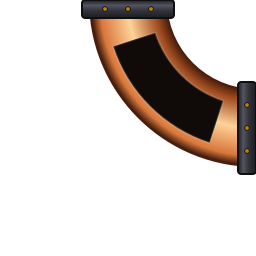
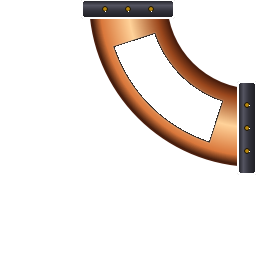
fix(pipepunk): layer fluid underneath pipe casings so liquid flows inside the cutaway bore

Changed region(s): [[0.4375, 0.125, 0.875, 0.5625], [0.9062, 0.3125, 1.0, 0.6875], [0.3125, 0.0, 0.6875, 0.0938]]

diff --git a/games/pipepunk/main.qml b/games/pipepunk/main.qml
@@ -1082,62 +1082,24 @@ Window {
                     readonly property real cellW: width / Engine.COLS
                     readonly property real cellH: height / Engine.ROWS
 
-                    // Base Plates and Pipes
+                    // Layer 1: Steel Base Plates
                     Repeater {
                         model: Engine.ROWS * Engine.COLS
 
-                        Item {
+                        Image {
                             readonly property int r: Math.floor(index / Engine.COLS)
                             readonly property int c: index % Engine.COLS
                             x: c * gridMatrix.cellW
                             y: r * gridMatrix.cellH
                             width: gridMatrix.cellW
                             height: gridMatrix.cellH
-
-                            // Steel Base Plate
-                            Image {
-                                anchors.fill: parent
-                                anchors.margins: 1
-                                source: "assets/plate.png"
-                                fillMode: Image.Stretch
-                                smooth: true
-                            }
-
-                            // Placed Pipe Fitting
-                            Image {
-                                id: pipeSprite
-                                anchors.fill: parent
-                                anchors.margins: 1
-                                fillMode: Image.Stretch
-                                smooth: true
-                                mipmap: true
-                                source: {
-                                    if (gridRevision < 0 || !gameState || !gameState.grid) return "";
-                                    var cell = gameState.grid[r][c];
-                                    if (!cell || cell.type === "empty") return "";
-                                    return "assets/" + cell.type + ".png";
-                                }
-                            }
-
-                            // Cell Mouse Click Handler
-                            MouseArea {
-                                anchors.fill: parent
-                                hoverEnabled: true
-                                cursorShape: Qt.PointingHandCursor
-                                onClicked: {
-                                    cursorR = r;
-                                    cursorC = c;
-                                    placePipeAt(r, c);
-                                }
-                                onEntered: {
-                                    cursorR = r;
-                                    cursorC = c;
-                                }
-                            }
+                            source: "assets/plate.png"
+                            fillMode: Image.Stretch
+                            smooth: true
                         }
                     }
 
-                    // Fluid Simulation Overlay Canvas
+                    // Layer 2: Fluid Simulation Canvas (flows INSIDE the pipe bore)
                     Canvas {
                         id: gridCanvas
                         anchors.fill: parent
@@ -1182,7 +1144,7 @@ Window {
                             grad.addColorStop(1, "#065f46");
 
                             ctx.strokeStyle = grad;
-                            ctx.lineWidth = cw * 0.22;
+                            ctx.lineWidth = cw * 0.18;
                             ctx.lineCap = "butt";
                             ctx.lineJoin = "miter";
 
@@ -1290,7 +1252,7 @@ Window {
                             grad.addColorStop(1, "#075985");
 
                             ctx.strokeStyle = grad;
-                            ctx.lineWidth = cw * 0.22;
+                            ctx.lineWidth = cw * 0.18;
                             ctx.lineCap = "butt";
 
                             ctx.beginPath();
@@ -1317,6 +1279,51 @@ Window {
                             ctx.stroke();
 
                             ctx.restore();
+                        }
+                    }
+
+                    // Layer 3: Placed Pipe Fittings (ON TOP of fluid, clamping fluid into the cutaway bore)
+                    Repeater {
+                        model: Engine.ROWS * Engine.COLS
+
+                        Item {
+                            readonly property int r: Math.floor(index / Engine.COLS)
+                            readonly property int c: index % Engine.COLS
+                            x: c * gridMatrix.cellW
+                            y: r * gridMatrix.cellH
+                            width: gridMatrix.cellW
+                            height: gridMatrix.cellH
+
+                            // Placed Pipe Fitting
+                            Image {
+                                id: pipeSprite
+                                anchors.fill: parent
+                                fillMode: Image.Stretch
+                                smooth: true
+                                mipmap: true
+                                source: {
+                                    if (gridRevision < 0 || !gameState || !gameState.grid) return "";
+                                    var cell = gameState.grid[r][c];
+                                    if (!cell || cell.type === "empty") return "";
+                                    return "assets/" + cell.type + ".png";
+                                }
+                            }
+
+                            // Cell Mouse Click Handler
+                            MouseArea {
+                                anchors.fill: parent
+                                hoverEnabled: true
+                                cursorShape: Qt.PointingHandCursor
+                                onClicked: {
+                                    cursorR = r;
+                                    cursorC = c;
+                                    placePipeAt(r, c);
+                                }
+                                onEntered: {
+                                    cursorR = r;
+                                    cursorC = c;
+                                }
+                            }
                         }
                     }
 
